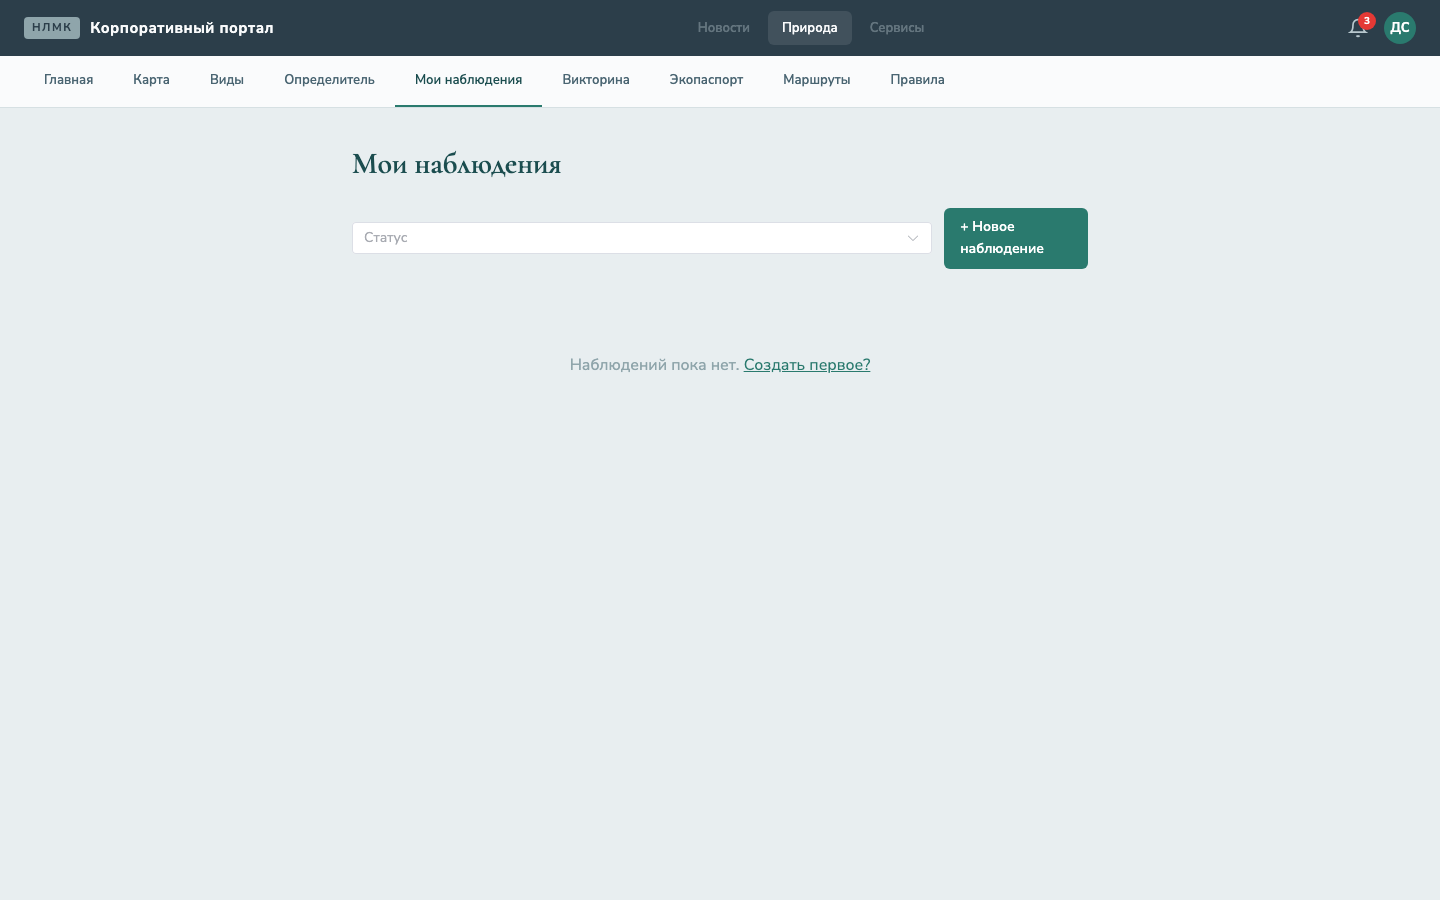
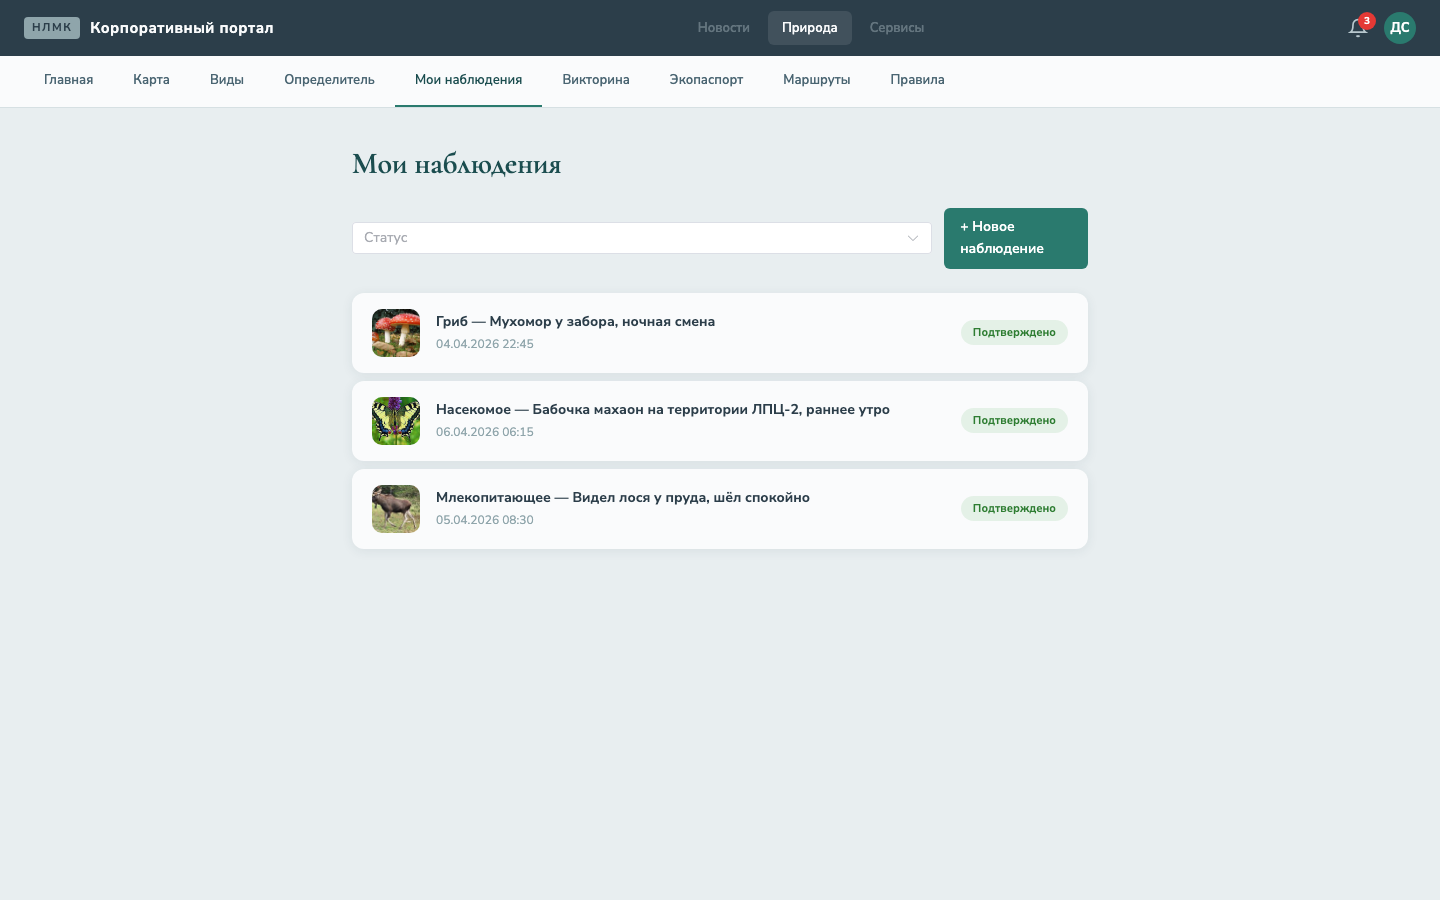
fix: persist auth to localStorage + update screenshots with real data
- Auth store now persists token and user to localStorage
- Login survives page refresh
- Screenshots 05 (my observations), 06 (map), 10 (profile) now show
  actual data: 3 observations with photos, achievements, leaderboard

diff --git a/frontend/src/stores/auth.ts b/frontend/src/stores/auth.ts
@@ -9,15 +9,17 @@ interface UserInfo {
 }
 
 export const useAuthStore = defineStore('auth', () => {
-  const token = ref<string | null>(null)
-  const user = ref<UserInfo | null>(null)
+  const token = ref<string | null>(localStorage.getItem('auth_token'))
+  const user = ref<UserInfo | null>(JSON.parse(localStorage.getItem('auth_user') || 'null'))
 
   function setToken(t: string) {
     token.value = t
+    localStorage.setItem('auth_token', t)
   }
 
   function setUser(u: UserInfo) {
     user.value = u
+    localStorage.setItem('auth_user', JSON.stringify(u))
   }
 
   function isEcologist() {
